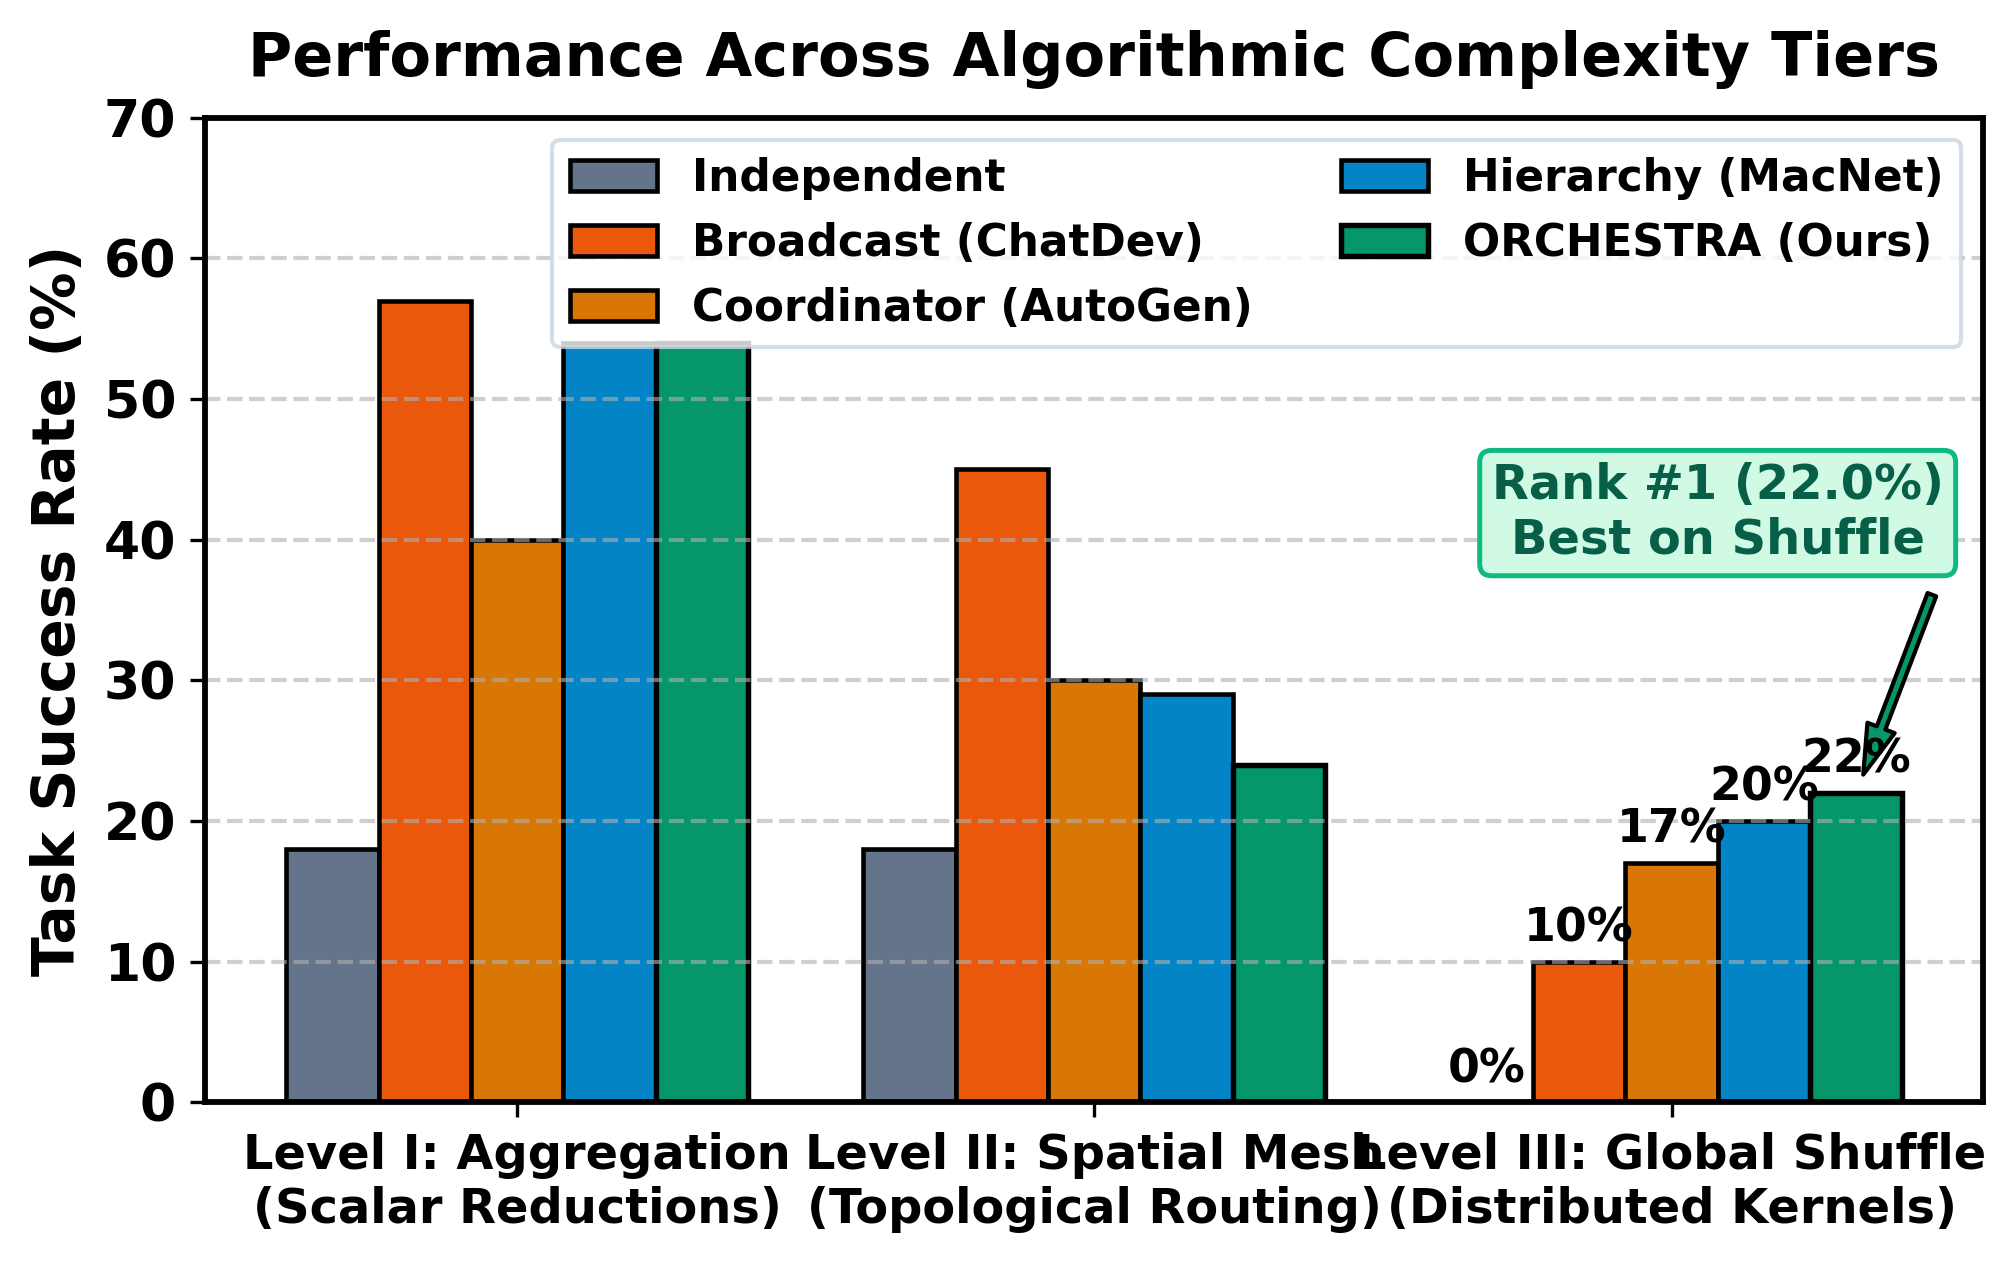
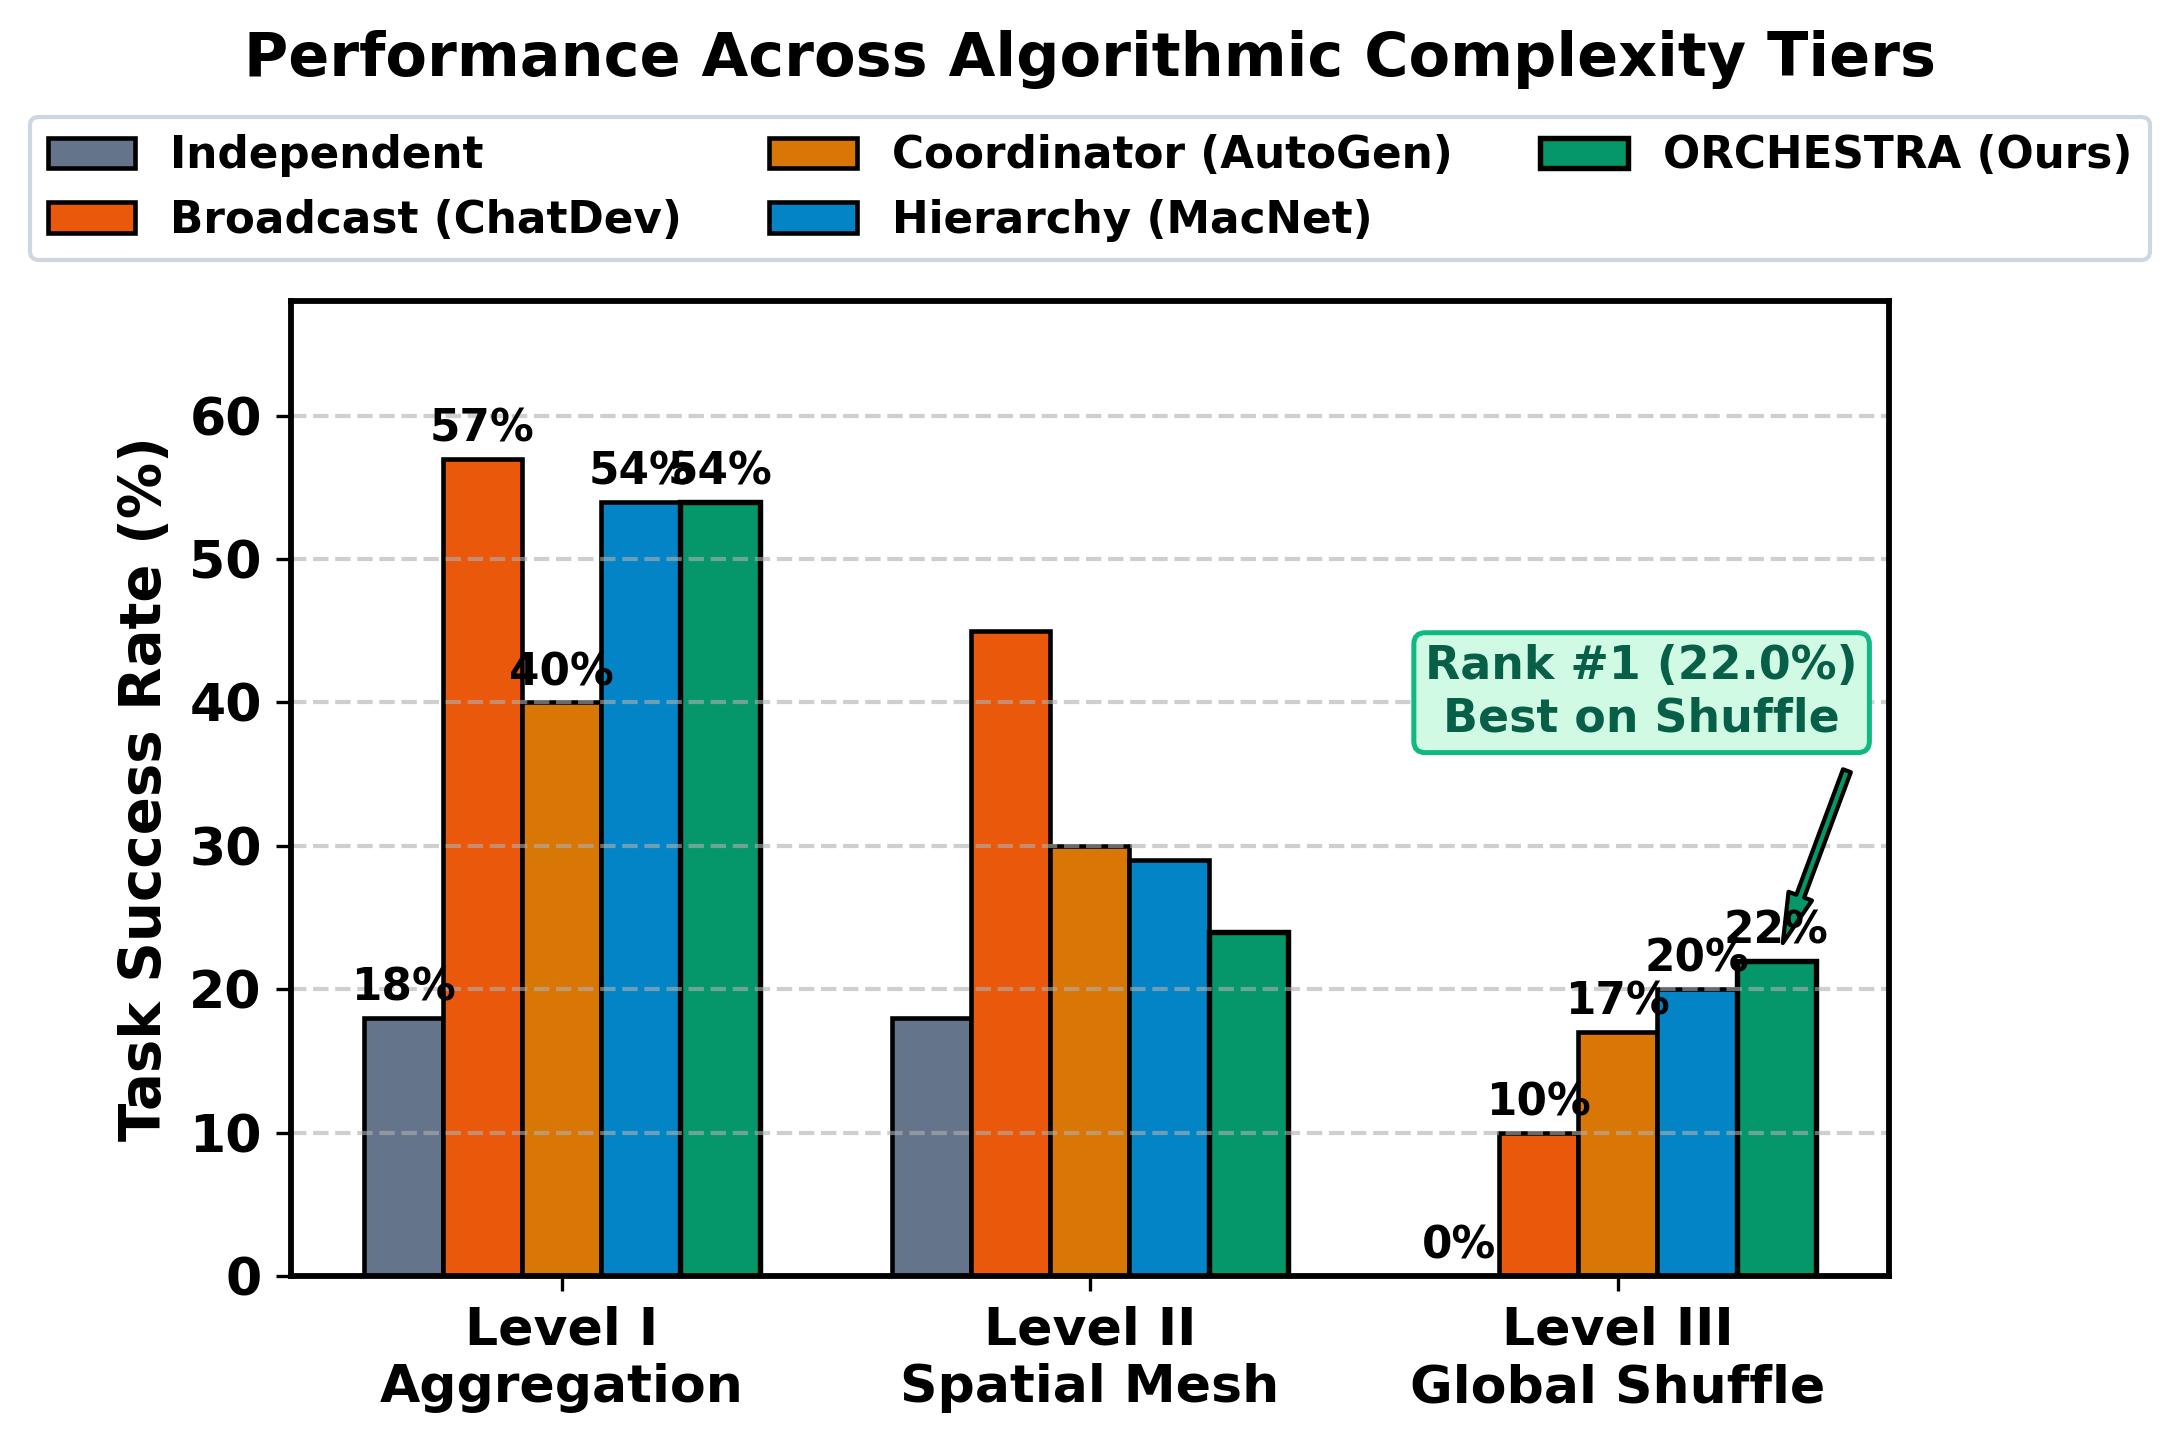
Fix x-axis label spacing and reposition legend above plot in figure_complexity_tiers

diff --git a/generate_enhanced_figures.py b/generate_enhanced_figures.py
@@ -198,9 +198,9 @@ def plot_pareto_frontier():
 # 4. Figure 8 (NEW): Algorithmic Complexity Tier Breakdown (Table VIII)
 # ==============================================================================
 def plot_complexity_tiers():
-    fig, ax = plt.subplots(figsize=(7.0, 4.4), dpi=300)
+    fig, ax = plt.subplots(figsize=(7.2, 5.0), dpi=300)
     
-    tiers = ["Level I: Aggregation\n(Scalar Reductions)", "Level II: Spatial Mesh\n(Topological Routing)", "Level III: Global Shuffle\n(Distributed Kernels)"]
+    tiers = ["Level I\nAggregation", "Level II\nSpatial Mesh", "Level III\nGlobal Shuffle"]
     
     # Accuracy for each method across the 3 tiers (from Table VIII)
     indep = [18.0, 18.0, 0.0]
@@ -210,7 +210,7 @@ def plot_complexity_tiers():
     orchestra = [54.0, 24.0, 22.0] # Rank 1 on Level III
     
     x = np.arange(len(tiers))
-    width = 0.16
+    width = 0.15
     
     r1 = ax.bar(x - 2*width, indep, width, label="Independent", color=C_INDEP, edgecolor="black", linewidth=1.1)
     r2 = ax.bar(x - width, broadcast, width, label="Broadcast (ChatDev)", color=C_BROADCAST, edgecolor="black", linewidth=1.1)
@@ -219,25 +219,35 @@ def plot_complexity_tiers():
     r5 = ax.bar(x + 2*width, orchestra, width, label="ORCHESTRA (Ours)", color=C_ORCHESTRA, edgecolor="black", linewidth=1.3)
     
     # Highlight Rank #1 on Level III
-    ax.annotate("Rank #1 (22.0%)\nBest on Shuffle", xy=(2 + 2*width, 22.0), xytext=(2 + width*0.5, 39),
-                arrowprops=dict(facecolor=C_ORCHESTRA, shrink=0.08, width=2.2, headwidth=7),
-                fontsize=11.5, fontweight="bold", color="#065f46", ha="center",
+    ax.annotate("Rank #1 (22.0%)\nBest on Shuffle", xy=(2 + 2*width, 22.0), xytext=(2 + width*0.3, 38),
+                arrowprops=dict(facecolor=C_ORCHESTRA, shrink=0.08, width=2.0, headwidth=6),
+                fontsize=11, fontweight="bold", color="#065f46", ha="center",
                 bbox=dict(boxstyle="round,pad=0.25", facecolor="#d1fae5", edgecolor="#10b981", lw=1.2))
     
     # Value annotations on Level III bars
     for rect in [r1[2], r2[2], r3[2], r4[2], r5[2]]:
         h = rect.get_height()
         ax.annotate(f"{h:.0f}%", xy=(rect.get_x() + rect.get_width()/2, h),
-                    xytext=(0, 2.5), textcoords="offset points", ha="center", va="bottom",
-                    fontsize=11, fontweight="bold")
+                    xytext=(0, 2), textcoords="offset points", ha="center", va="bottom",
+                    fontsize=10.5, fontweight="bold")
+
+    # Value annotations on Level I bars
+    for rect in [r1[0], r2[0], r3[0], r4[0], r5[0]]:
+        h = rect.get_height()
+        ax.annotate(f"{h:.0f}%", xy=(rect.get_x() + rect.get_width()/2, h),
+                    xytext=(0, 2), textcoords="offset points", ha="center", va="bottom",
+                    fontsize=10.5, fontweight="bold")
         
-    ax.set_ylabel("Task Success Rate (%)", fontweight="bold", fontsize=14)
-    ax.set_title("Performance Across Algorithmic Complexity Tiers", pad=10, fontsize=14.5, fontweight="bold")
+    ax.set_ylabel("Task Success Rate (%)", fontweight="bold", fontsize=13.5)
     ax.set_xticks(x)
-    ax.set_xticklabels(tiers, fontweight="bold", fontsize=11.5)
-    ax.set_ylim(0, 70)
+    ax.set_xticklabels(tiers, fontweight="bold", fontsize=12.5)
+    ax.set_ylim(0, 68)
     ax.grid(axis="y", linestyle="--", alpha=0.6, linewidth=1.0)
-    ax.legend(frameon=True, facecolor="white", edgecolor="#cbd5e1", loc="upper right", ncol=2, fontsize=10.5)
+    
+    # Legend placed cleanly above the plot (completely outside the bars to prevent collision with Level 1 graphs)
+    ax.legend(loc="lower center", bbox_to_anchor=(0.5, 1.02), ncol=3, fontsize=10.5,
+              frameon=True, facecolor="white", edgecolor="#cbd5e1", framealpha=0.95)
+    ax.set_title("Performance Across Algorithmic Complexity Tiers", pad=54, fontsize=14.5, fontweight="bold")
     
     plt.tight_layout()
     p = out_dir / "figure_complexity_tiers.png"
